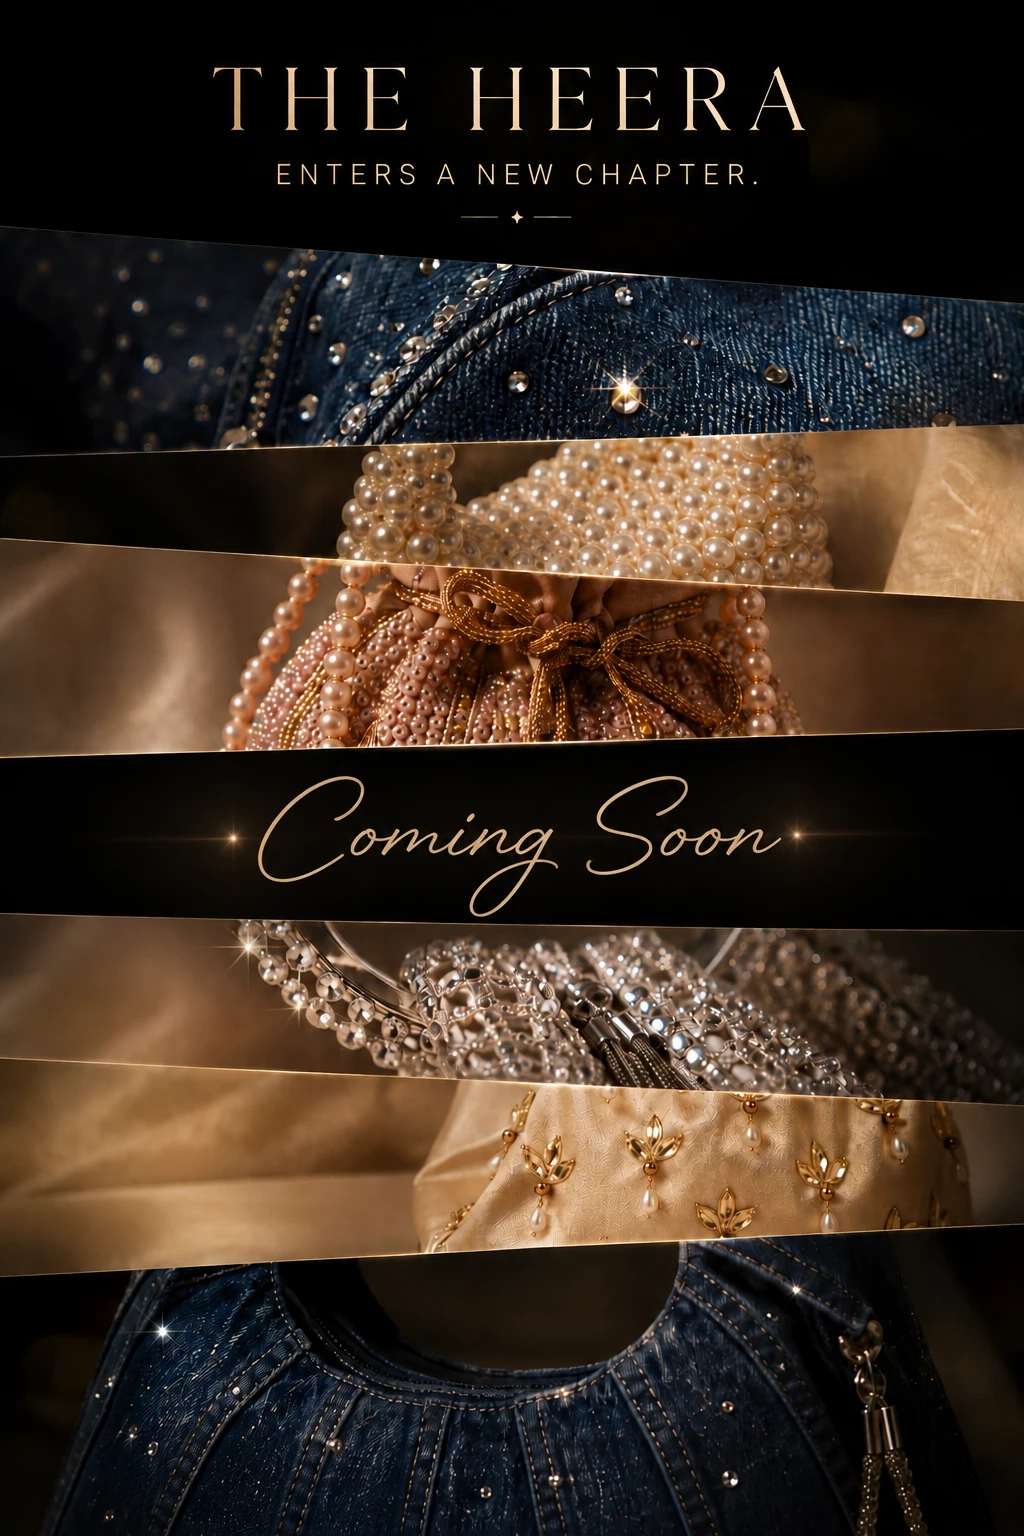
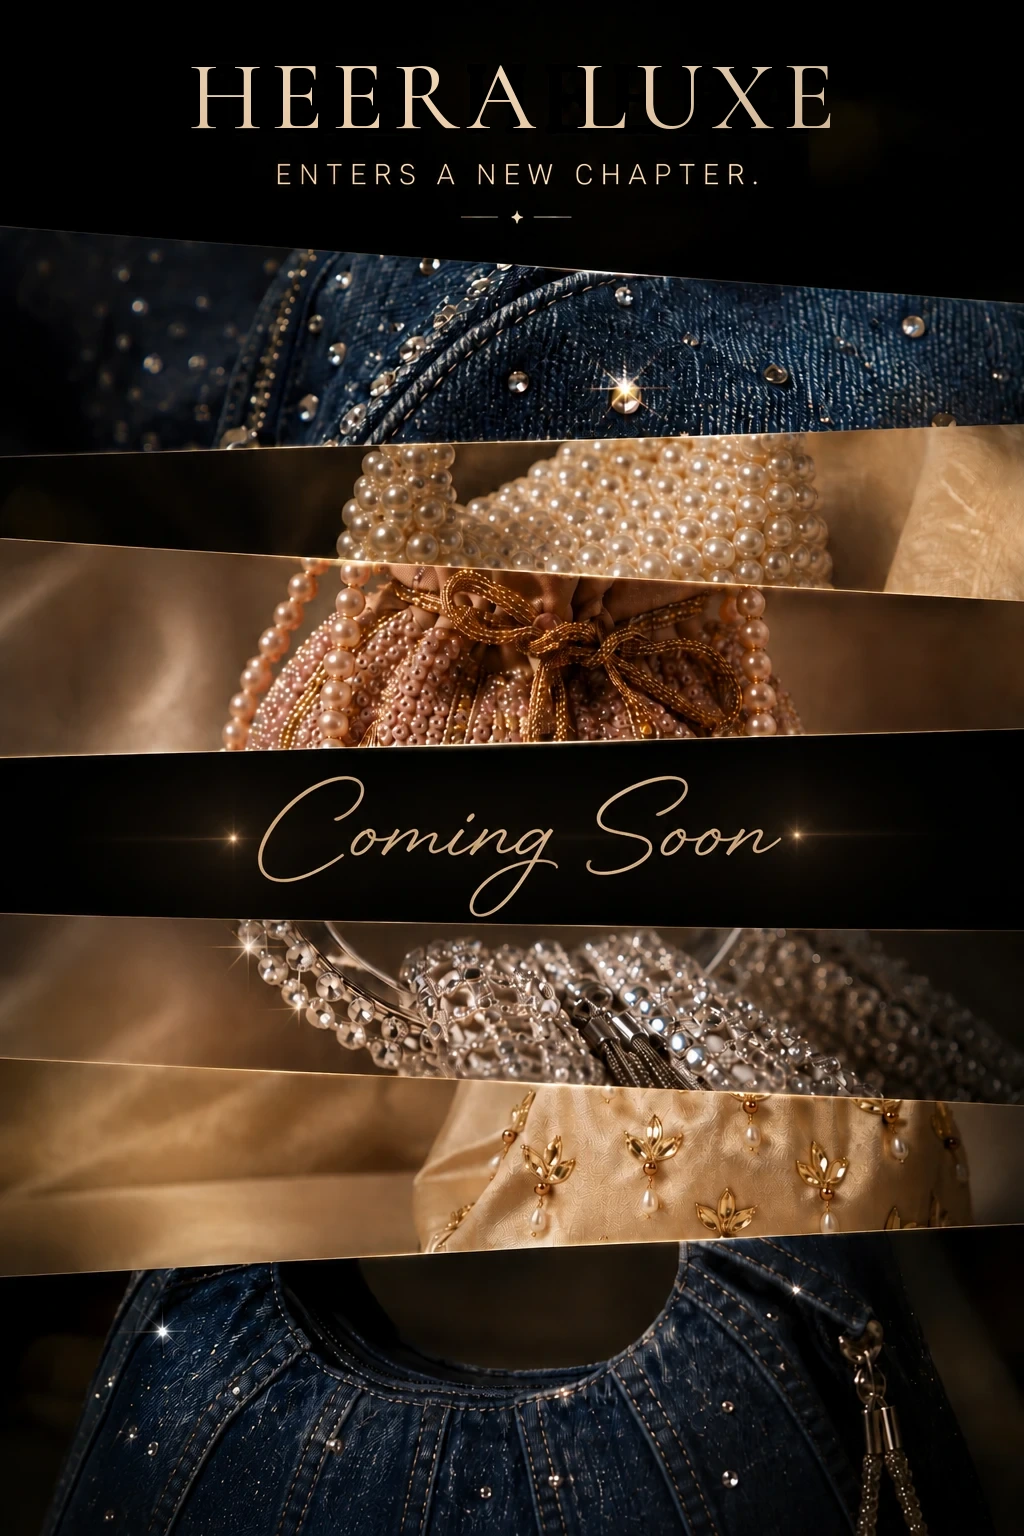
Footwear panel and page with all heels, flats and platforms; Heera Luxe in the posters and founder pictures
Claude-Session: https://claude.ai/code/session_01HSUshPUWyhe7UhF4GPR1Tg

Changed region(s): [[0.1875, 0.0312, 0.8125, 0.0938]]

diff --git a/src/components/shop-view.tsx b/src/components/shop-view.tsx
@@ -3,13 +3,15 @@ import Link from "next/link";
 import { ProductCard } from "@/components/product-card";
 import { Eyebrow } from "@/components/section-heading";
 import { byCategory, categories, categoryKeys, type Category, type Product } from "@/lib/catalog";
+
+type Group = { title: string; blurb: string; keys: Category[] };
 import { cn } from "@/lib/utils";
 
-export function ShopView({ category }: { category?: Category }) {
-  const list = byCategory(category);
-  const info = category ? categories[category] : null;
-  const tabs = [{ key: "all", label: "All", href: "/shop" }, ...categoryKeys.map((k) => ({ key: k, label: categories[k].label, href: `/shop/${k}` }))];
-  const current = category ?? "all";
+export function ShopView({ category, group }: { category?: Category; group?: Group }) {
+  const list = group ? group.keys.flatMap((k) => byCategory(k)) : byCategory(category);
+  const info = category ? categories[category] : group ?? null;
+  const tabs = [{ key: "all", label: "All", href: "/shop" }, { key: "footwear", label: "Footwear", href: "/shop/footwear" }, ...categoryKeys.map((k) => ({ key: k, label: categories[k].label, href: `/shop/${k}` }))];
+  const current = category ?? (group ? "footwear" : "all");
 
   return (
     <div className="mx-auto max-w-7xl px-4 pt-10 pb-20 sm:px-6 sm:pt-14">
@@ -42,7 +44,7 @@ export function ShopView({ category }: { category?: Category }) {
       ) : (
         // "Shop all" keeps each type together so the page reads calmly.
         <div className="space-y-16">
-          {categoryKeys.map((key) => (
+          {(group?.keys ?? categoryKeys).map((key) => (
             <section key={key} aria-labelledby={`shop-${key}`}>
               <div className="mb-6 flex items-baseline justify-between border-b pb-3">
                 <h2 id={`shop-${key}`} className="text-2xl tracking-[0.14em] uppercase sm:text-3xl">
@@ -52,7 +54,7 @@ export function ShopView({ category }: { category?: Category }) {
                   View {categories[key].label.toLowerCase()}
                 </Link>
               </div>
-              <Grid products={byCategory(key)} priority={key === categoryKeys[0]} />
+              <Grid products={byCategory(key)} priority={key === (group?.keys ?? categoryKeys)[0]} />
             </section>
           ))}
         </div>

diff --git a/src/app/shop/[category]/page.tsx b/src/app/shop/[category]/page.tsx
@@ -2,20 +2,22 @@ import type { Metadata } from "next";
 import { notFound } from "next/navigation";
 
 import { ShopView } from "@/components/shop-view";
-import { categories, categoryKeys, isCategory } from "@/lib/catalog";
+import { categories, categoryKeys, footwear, isCategory } from "@/lib/catalog";
 
 export function generateStaticParams() {
-  return categoryKeys.map((category) => ({ category }));
+  return [...categoryKeys, "footwear"].map((category) => ({ category }));
 }
 
 export async function generateMetadata(props: PageProps<"/shop/[category]">): Promise<Metadata> {
   const { category } = await props.params;
+  if (category === "footwear") return { title: footwear.title, description: footwear.blurb };
   if (!isCategory(category)) return {};
   return { title: categories[category].title, description: categories[category].blurb };
 }
 
 export default async function CategoryPage(props: PageProps<"/shop/[category]">) {
   const { category } = await props.params;
+  if (category === "footwear") return <ShopView group={footwear} />;
   if (!isCategory(category)) notFound();
   return <ShopView category={category} />;
 }

diff --git a/src/app/sitemap.ts b/src/app/sitemap.ts
@@ -4,7 +4,7 @@ import { site } from "@/config/site";
 import { categoryKeys, editKeys, products } from "@/lib/catalog";
 
 export default function sitemap(): MetadataRoute.Sitemap {
-  const pages = ["", "/shop", "/shipping-returns", "/faq", "/contact", ...categoryKeys.map((c) => `/shop/${c}`), ...editKeys.map((e) => `/edits/${e}`)];
+  const pages = ["", "/shop", "/shop/footwear", "/shipping-returns", "/faq", "/contact", ...categoryKeys.map((c) => `/shop/${c}`), ...editKeys.map((e) => `/edits/${e}`)];
   return [
     ...pages.map((p) => ({ url: `${site.url}${p}` })),
     ...products.map((p) => ({ url: `${site.url}/products/${p.slug}` })),

diff --git a/src/config/home.ts b/src/config/home.ts
@@ -68,7 +68,7 @@ export const home = {
 
   // "Shop by type": the two wide panels after New In.
   shopByType: [
-    { title: "Heels", body: "Step into elegance", href: "/shop/heels", image: "/images/home/type-heels.webp", alt: "Into the Night heels with a crystal brooch" },
+    { title: "Footwear", body: "Heels, flats & platforms", href: "/shop/footwear", image: "/images/home/type-heels.webp", alt: "Into the Night heels with a crystal brooch" },
     { title: "Bags", body: "Carry the luxe", href: "/shop/bags", image: "/images/home/type-bags.webp", alt: "Crystal bucket bag" },
   ],
 

diff --git a/src/lib/catalog.ts b/src/lib/catalog.ts
@@ -26,6 +26,13 @@ export const categories = {
 export type Category = keyof typeof categories;
 export const categoryKeys = Object.keys(categories) as Category[];
 
+// Everything worn on the feet, shown together at /shop/footwear.
+export const footwear = {
+  title: "Footwear",
+  blurb: "Heels, flats and platforms, embellished by hand. Pick your height, keep the sparkle.",
+  keys: ["heels", "flats", "platforms"] as Category[],
+};
+
 export type Product = {
   slug: string;
   name: string;

diff --git a/src/app/products/[slug]/page.tsx b/src/app/products/[slug]/page.tsx
@@ -47,7 +47,7 @@ export default async function ProductPage(props: PageProps<"/products/[slug]">) 
   const more = related(product);
   const isBag = product.category === "bags";
   const mailto = `mailto:${site.email}?subject=${encodeURIComponent(product.name)}&body=${encodeURIComponent(
-    `Hi Heera team,\n\nI have a question about ${product.name}.\n\nThank you!`,
+    `Hi Heera Luxe team,\n\nI have a question about ${product.name}.\n\nThank you!`,
   )}`;
 
   const jsonLd = {

diff --git a/src/config/site.ts b/src/config/site.ts
@@ -38,12 +38,12 @@ export const mainNav = [
   { label: "Bags", href: "/shop/bags" },
   {
     label: "Footwear",
-    href: "/shop",
+    href: "/shop/footwear",
     children: [
+      { label: "All footwear", href: "/shop/footwear" },
       { label: "Heels", href: "/shop/heels" },
       { label: "Flats", href: "/shop/flats" },
       { label: "Platforms", href: "/shop/platforms" },
-      { label: "Shop all", href: "/shop" },
     ],
   },
   {

diff --git a/CLAUDE.md b/CLAUDE.md
@@ -9,11 +9,11 @@ The person editing this is not a developer. They ask in plain words ("make the b
 - **Products:** `src/data/products.json`, one entry per product (slug, name, category, price, compareAtPrice, inStock, summary, details, images). Adding, editing, repricing or marking sold out happens only here.
   - `category` must be `heels`, `flats`, `platforms` or `bags`.
   - `compareAtPrice` is the old struck-through price, or `null`. Only set it when the owner gives one.
-- **Home page photos and words** (sliding banner `slides`, promises, "Everyday glamour", `shopByType`, `reels`, `lovedByYou`, founder message, top announcement): `src/config/home.ts`, photos in `public/images/home/`. To swap a photo, replace the file with the same name. Reel videos go in `public/videos/` and their path in that reel's `video`. On bigger screens the founder section is the owner's own picture (`founder-message.webp`), shown exactly as sent.
+- **Home page photos and words** (sliding banner `slides`, promises, "Everyday glamour", `shopByType`, `reels`, `lovedByYou`, founder message, top announcement): `src/config/home.ts`, photos in `public/images/home/`. To swap a photo, replace the file with the same name. Reel videos go in `public/videos/` and their path in that reel's `video`. On bigger screens the founder section is the owner's own picture (`founder-message.webp`), shown as sent except that "The Heera" in it (and in the phone poster and phone founder picture) was redrawn as "Heera Luxe"; the untouched originals are what the owner sent, so ask for new files rather than re-editing.
 - **Phone layout:** phones use the same home page sections as bigger screens, stacked (Shop by type panels alternate words left, then right; Everyday glamour is hidden on phones), plus a phone-only trust strip (`src/components/home-mobile.tsx`, words under `home.mobile`). The founder section shows the owner's tall picture on phones (`founder-message-mobile.webp`). The footer folds into tap-to-open rows on phones. Leave the computer layout alone when the owner asks about phones.
 - **Logo:** `public/images/brand/heera-luxe-logo.webp` (header/footer) and `heera-luxe-logo-full.webp`. Both are light on a see-through background, so use them on dark bands only.
 - **Product photos:** `public/images/products/<slug>-<n>.webp`. The first photo is the main one. A new photo the owner shares must be saved here and listed in that product's `images`.
-- **Category names, blurbs, home page picks, product order and the edits:** `src/lib/catalog.ts` (`categories`, `newInSlugs`, `bestsellerSlugs`, `popularity`, `edits`). Every product list follows `popularity`; never label it as "sorted by popularity" on the site.
+- **Category names, blurbs, home page picks, product order and the edits:** `src/lib/catalog.ts` (`categories`, `footwear` for the /shop/footwear page, `newInSlugs`, `bestsellerSlugs`, `popularity`, `edits`). Every product list follows `popularity`; never label it as "sorted by popularity" on the site.
 - **Brand facts, shipping days, exchange days, Instagram and email:** `src/config/site.ts`.
 - **Pages:** `src/app/` (home `page.tsx`, `shop/`, `products/[slug]/`, `faq/`, `shipping-returns/`, `contact/`).
 - **Look and feel:** colours in `src/app/globals.css` (ivory, near-black, rose-`gold`, `espresso`, `blush`; `class="dark"` gives a dark band). The fonts are Cormorant Garamond for headings, Jost for text and Allura (`font-script`) for the odd handwritten word, set in `src/app/layout.tsx`.
